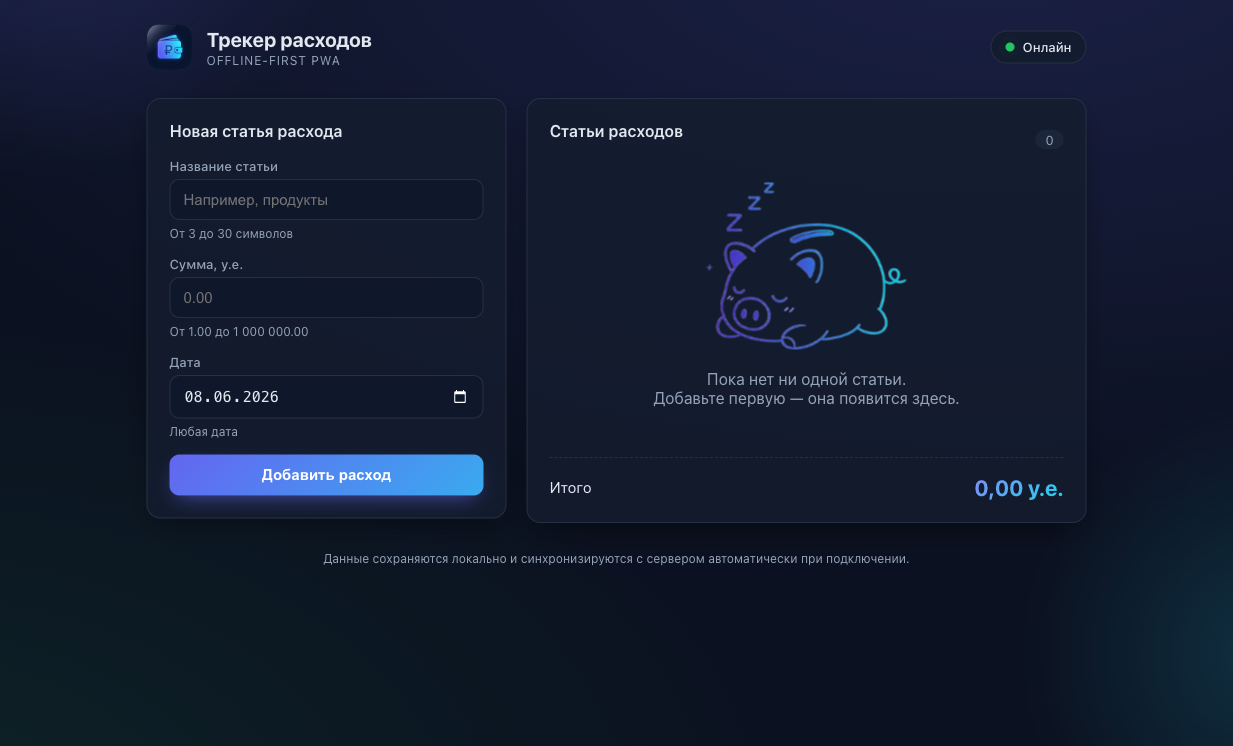
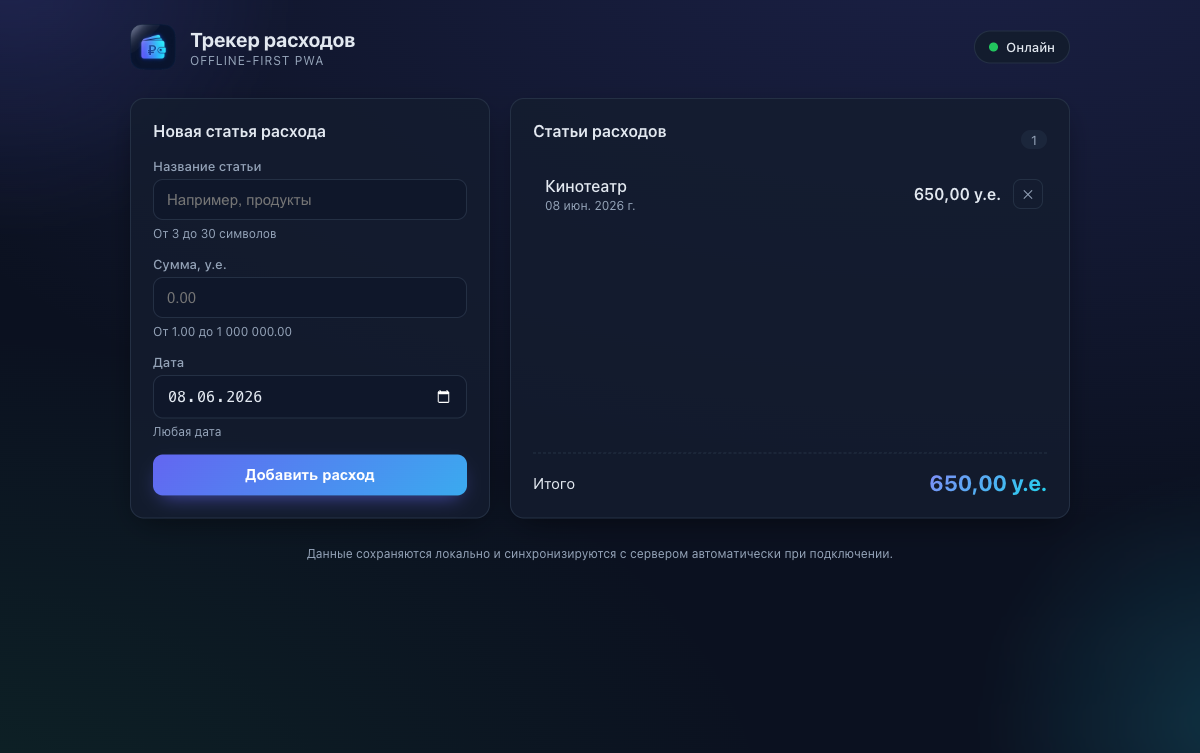
style(web): равная высота карточек, статичная точка статуса, меньше копилки
- карточки формы и списка одинаковой высоты (grid stretch); кнопка/итог прижаты к низу
- убрана пульсация индикатора онлайн — статичная точка
- иллюстрация пустого состояния меньше и без анимации, центрирована
- обновлены скриншоты README

diff --git a/apps/web/src/styles/app.css b/apps/web/src/styles/app.css
@@ -137,26 +137,12 @@ body::before {
 
 .badge__dot--online {
   background: var(--green);
-  box-shadow: 0 0 0 0 rgba(34, 197, 94, 0.6);
-  animation: pulse 2s infinite;
 }
 .badge__dot--offline {
   background: var(--red);
 }
 .badge__dot--backend-down {
   background: var(--amber);
-}
-
-@keyframes pulse {
-  0% {
-    box-shadow: 0 0 0 0 rgba(34, 197, 94, 0.5);
-  }
-  70% {
-    box-shadow: 0 0 0 7px rgba(34, 197, 94, 0);
-  }
-  100% {
-    box-shadow: 0 0 0 0 rgba(34, 197, 94, 0);
-  }
 }
 
 .badge__pending {
@@ -173,7 +159,18 @@ body::before {
   display: grid;
   grid-template-columns: minmax(280px, 360px) 1fr;
   gap: 20px;
-  align-items: start;
+  align-items: stretch;
+}
+
+/* Обе карточки одинаковой высоты: тянутся под более высокую, */
+/* кнопка формы и итог списка прижаты к низу. */
+.form,
+.list {
+  display: flex;
+  flex-direction: column;
+}
+.form .button {
+  margin-top: auto;
 }
 
 @media (max-width: 720px) {
@@ -300,27 +297,22 @@ body::before {
 .list__empty {
   color: var(--text-muted);
   text-align: center;
-  padding: 28px 0 16px;
+  padding: 24px 0 16px;
+  /* Центрируем пустое состояние по вертикали в растянутой карточке */
+  flex: 1;
+  display: flex;
+  flex-direction: column;
+  justify-content: center;
+  align-items: center;
 }
 
 .list__empty-img {
   display: block;
-  width: 200px;
-  max-width: 65%;
+  width: 132px;
+  max-width: 45%;
   height: auto;
-  margin: 0 auto 6px;
-  opacity: 0.92;
-  animation: floaty 4s ease-in-out infinite;
-}
-
-@keyframes floaty {
-  0%,
-  100% {
-    transform: translateY(0);
-  }
-  50% {
-    transform: translateY(-6px);
-  }
+  margin: 0 auto 10px;
+  opacity: 0.9;
 }
 
 .list__items {
@@ -439,7 +431,7 @@ body::before {
   display: flex;
   align-items: center;
   justify-content: space-between;
-  margin-top: 18px;
+  margin-top: auto; /* прижимаем итог к низу растянутой карточки */
   padding-top: 16px;
   border-top: 1px dashed var(--border);
   font-size: 15px;